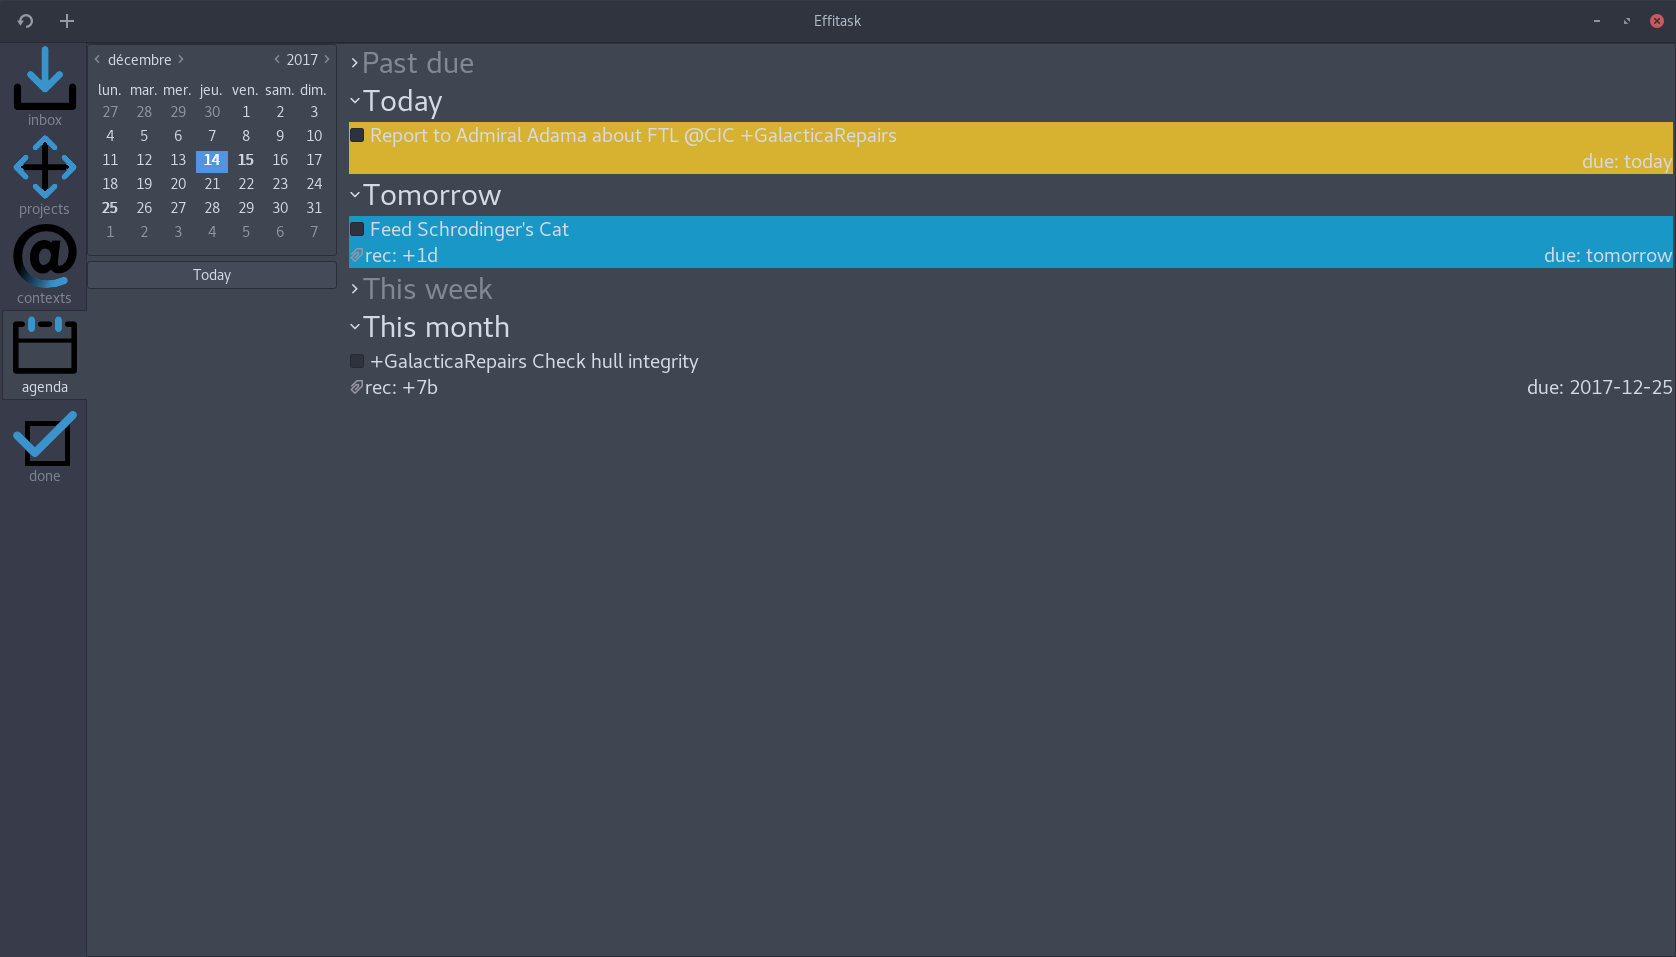
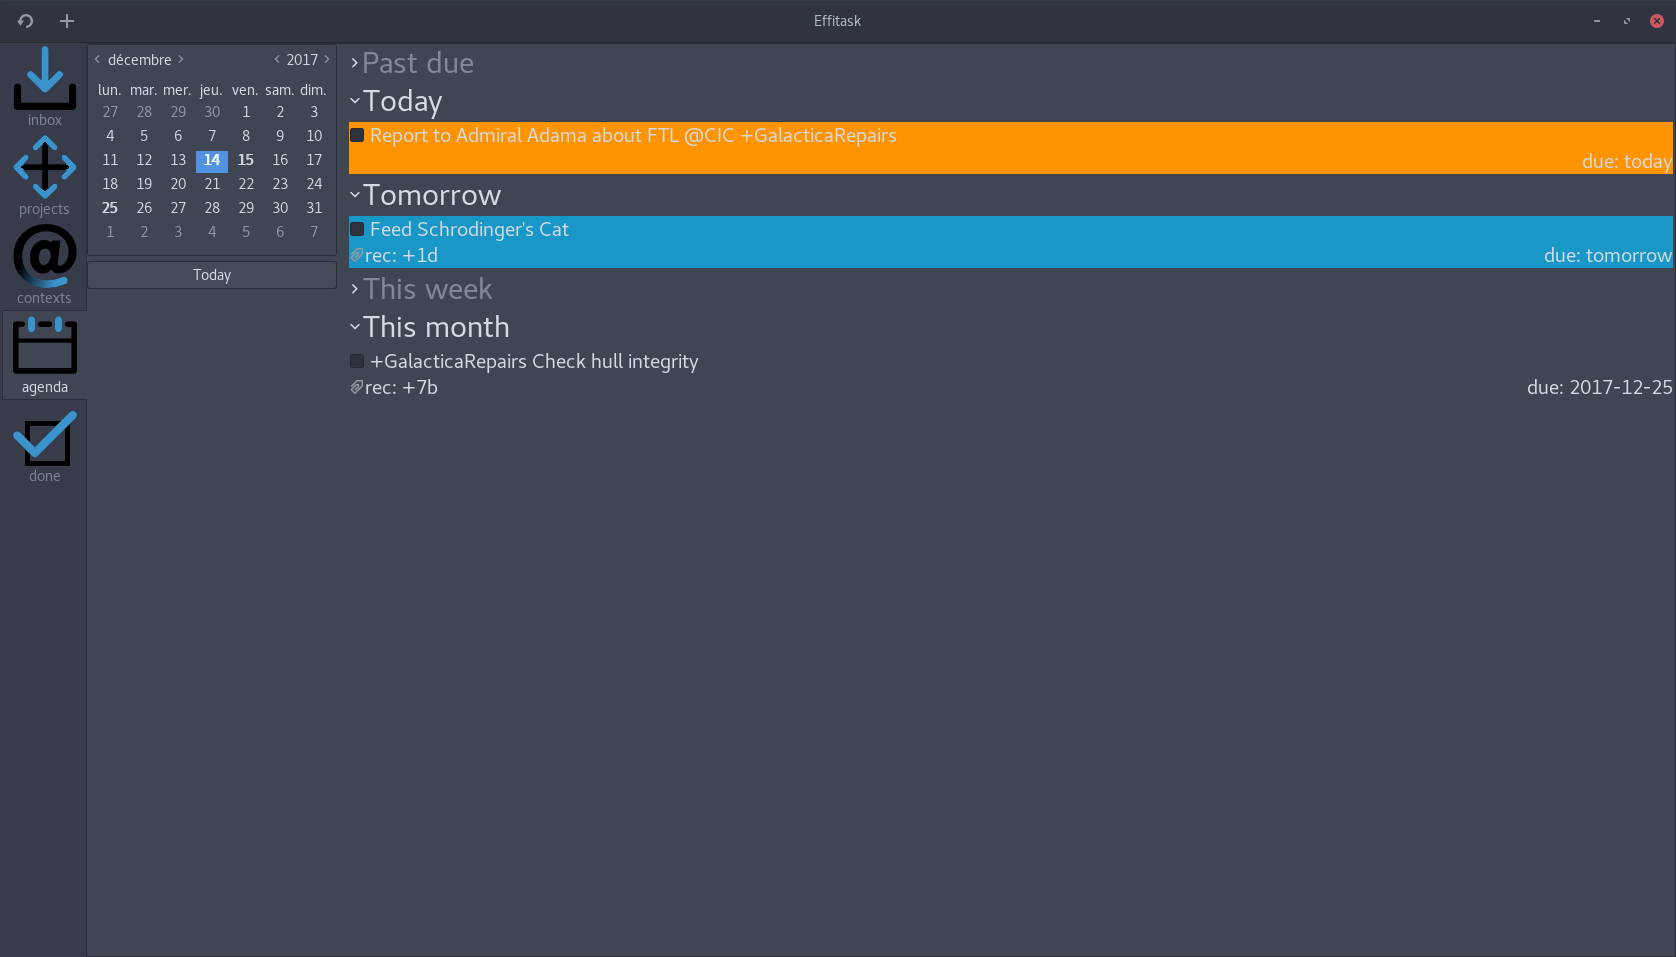
Improve priority B dark theme visibility

Changed region(s): [[0.1862, 0.1212, 1.0, 0.1818]]

diff --git a/resources/style_dark.css b/resources/style_dark.css
@@ -5,7 +5,7 @@
 }
 
 .pri_b {
-    background-color: #D7B231;
+    background-color: #FF9400;
 }
 
 .pri_c {
